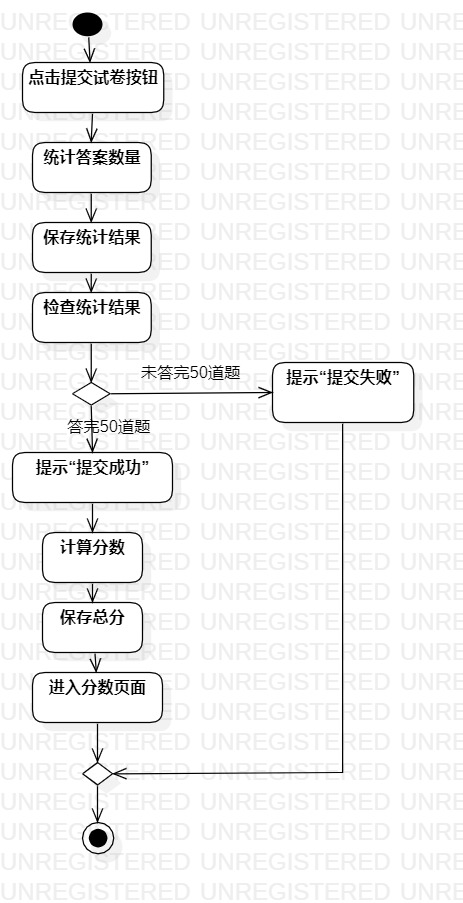
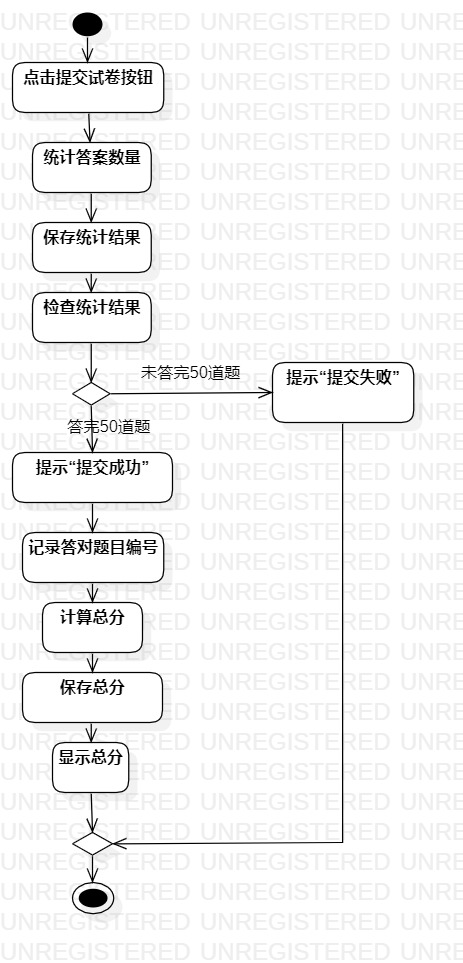
#6 #53 实验六：交互建模(修改提交)

Changed region(s): [[0.0, 0.031, 0.9071, 0.9612], [0.4233, 0.8682, 0.6652, 0.8992], [0.0302, 0.7132, 0.0605, 0.7442]]

diff --git a/students/1714080902319/lab2.md b/students/1714080902319/lab2.md
@@ -67,8 +67,9 @@
 | 基本流程 | 1. 考生点击提交试卷按钮                           | 用例执行成功的步骤 |
 | ~        | 2. 系统统计考生答案数量，保存统计结果             |                    |
 | ~        | 3. 系统检查已经答完全部50道题，系统提示“提交成功” |                    |
-| ~        | 4. 系统计算考生分数                               |                    |
-| ~        | 5. 系统保存考生总分                               |                    |
-| ~        | 6. 系统显示分数页面                               |                    |
+| ~        | 4. 系统记录答对的题目编号                         |                    |
+| ~        | 5. 系统计算分数                                   |                    |
+| ~        | 6. 系统保存总分                                   |                    |
+| ~        | 7. 系统显示总分                                   |                    |
 | 扩展流程 | 3.1 系统检查未答完全部50道题，系统提示“提交失败”  | 用例执行失败       |
 

diff --git a/students/1714080902319/lab6.md b/students/1714080902319/lab6.md
@@ -1,0 +1,43 @@
+# 实验四：交互建模
+
+## 一、实验目标
+
+1. 理解系统交互
+2. 掌握UML顺序图的画法
+3. 掌握对象交互的定义与建模方法
+
+## 二、实验内容
+
+1、根据用例模型和类模型，确定功能所涉及的系统对象；
+
+2、在顺序图上画出参与者（对象）
+
+3、在顺序图上画出消息（交互）
+
+## 三、实验步骤
+
+1、在StarUML上创建顺序图
+
+2、根据用例规约和类图，画出1+N个参与者
+
+3、绘制答题顺序图
+
+4、绘制交卷顺序图
+
+5、撰写实验六文档
+
+## 四、实验结果
+
+![](./AnswerQuestion.jpg)
+
+
+
+																图1：答题顺序图
+
+![](./SubmitPapper.jpg)
+
+																图2：交卷顺序图
+
+## 实验总结
+
+整个交卷过程未访问题目中的问题所以将问题去掉了。此次实验修改了实验二、实验三和实验四五。

diff --git a/students/1714080902319/lab3.md b/students/1714080902319/lab3.md
@@ -37,4 +37,4 @@
 
 ## 五、实验总结
 
-		出于让活动图简洁的考虑，修改了实验二交卷用例规约的扩展流程。将系统提示从“未答完50道题，提交失败”改为“提交失败”。虽然之前的提示更加的面向用户，告诉用户是有题目没做才提交失败。但是出于让活动图简洁
+		出于让活动图简洁的考虑，修改了实验二交卷用例规约的扩展流程。将系统提示从“未答完50道题，提交失败”改为“提交失败”。虽然之前的提示更加的面向用户，告诉用户是有题目没做才提交失败。但是出于让活动图简洁。出于让顺序图访问题目的考虑修改了交卷用例规约所以也细化了交卷活动图

diff --git a/students/1714080902319/lab4.md b/students/1714080902319/lab4.md
@@ -34,3 +34,6 @@
 
 																图2：交卷类图
 
+## 实验总结
+
+整个交卷过程未访问题目中的问题所以将问题去掉了。
